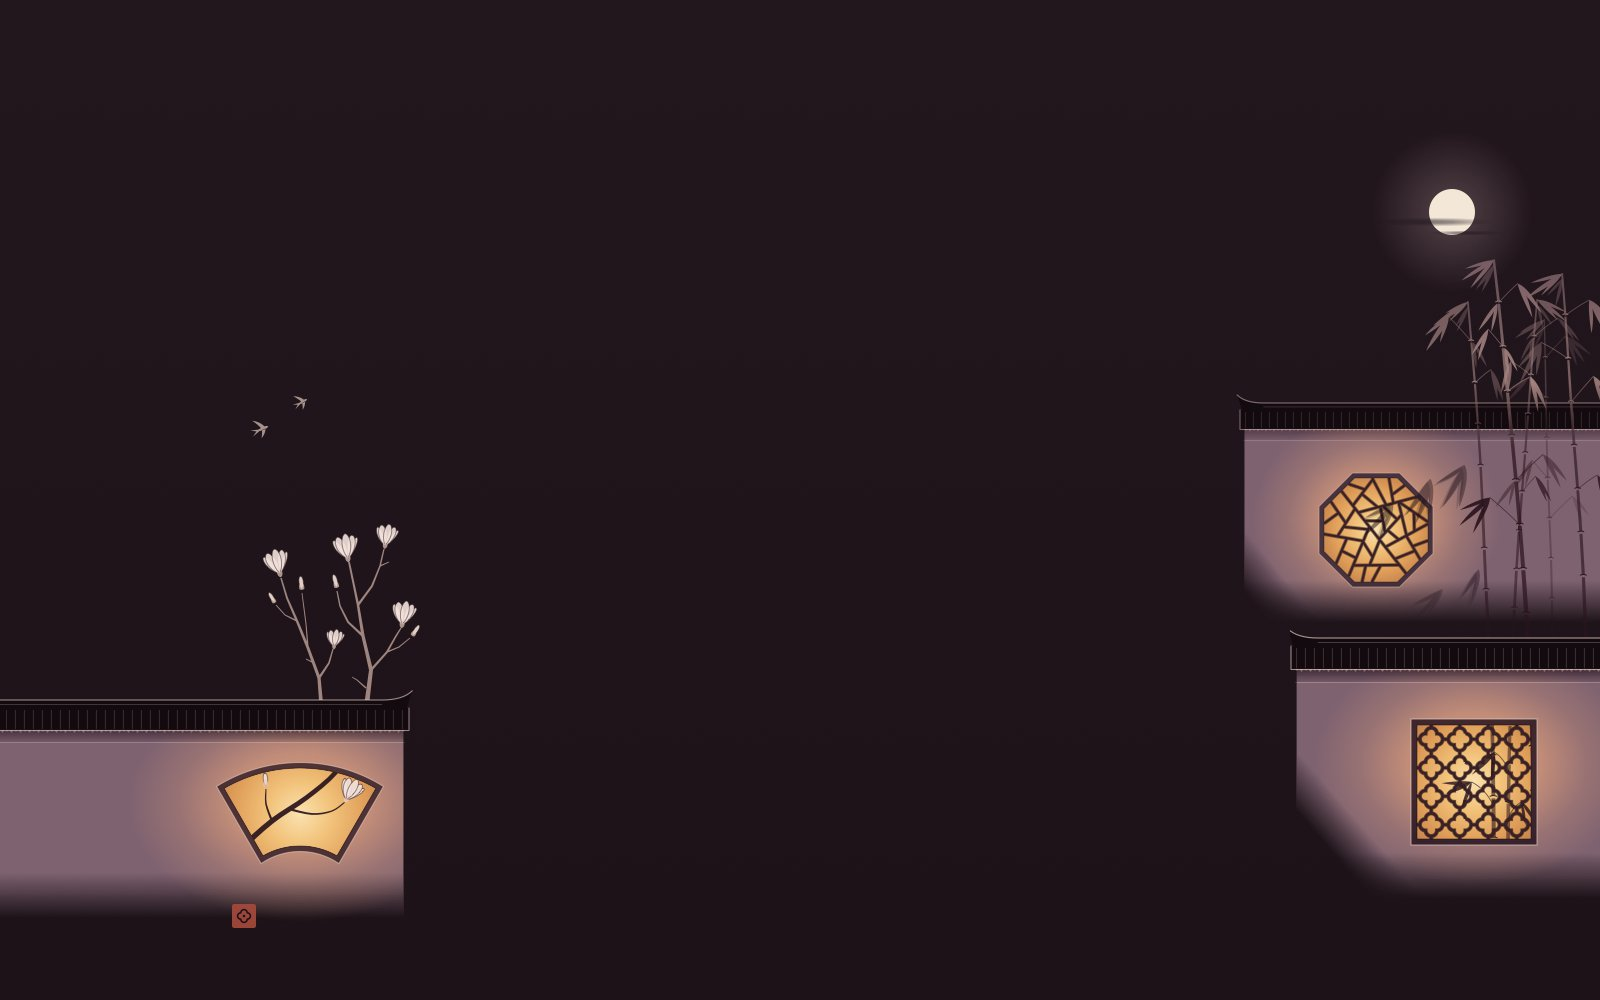
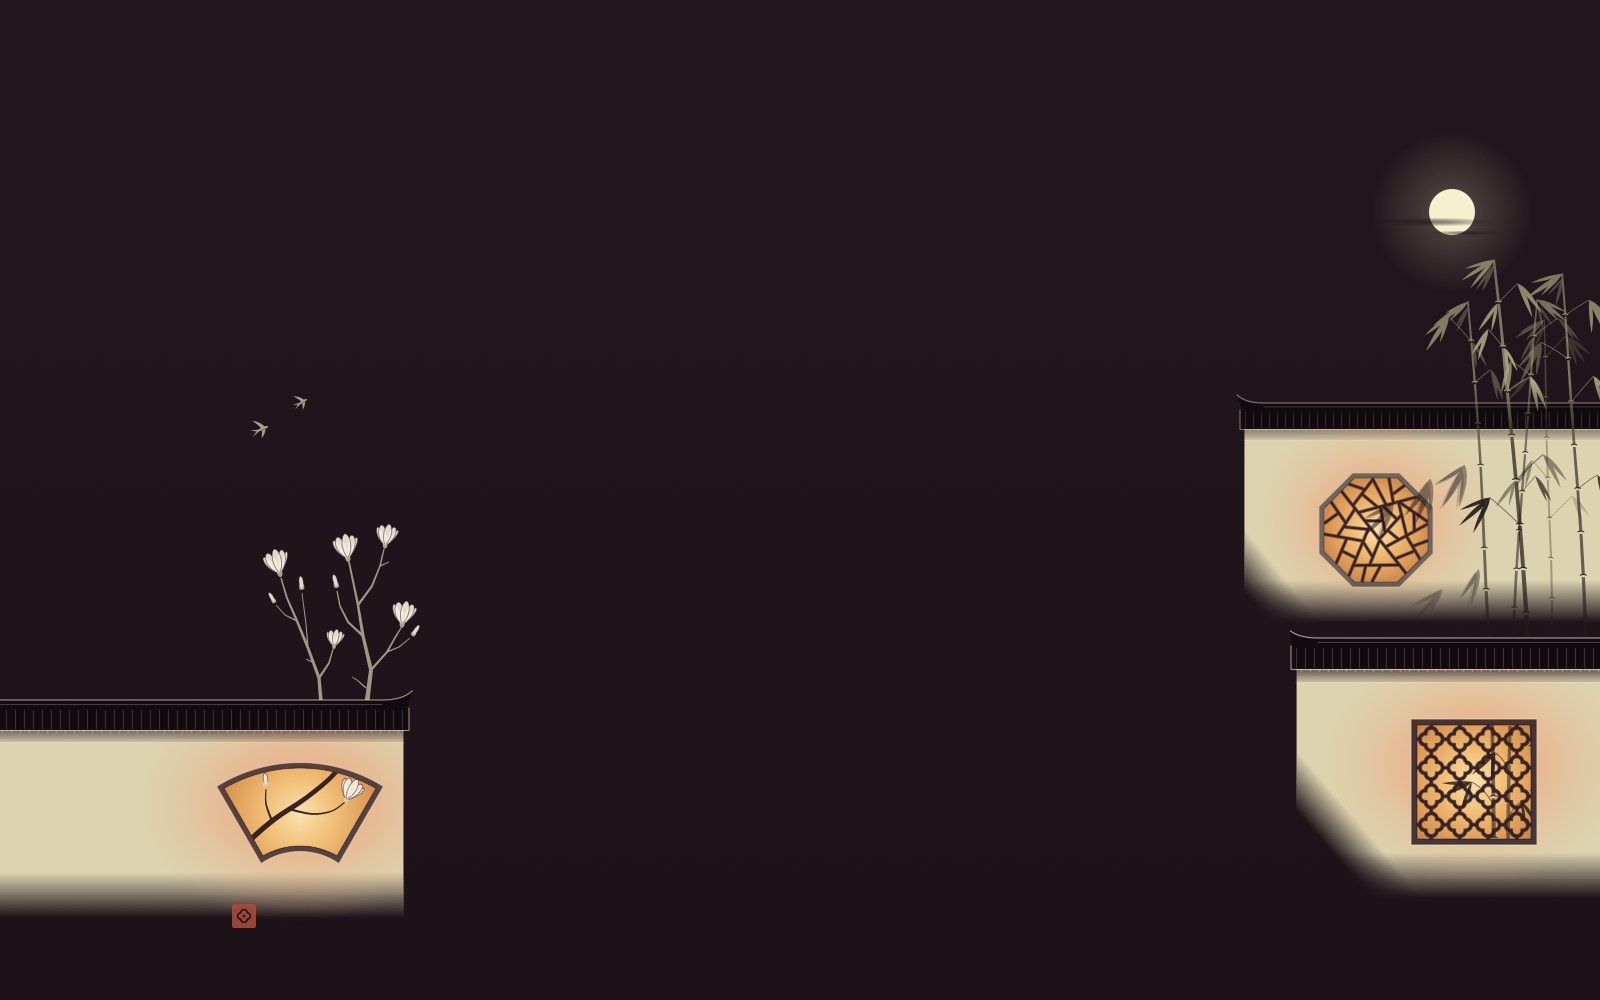
Lattice Windows at night: pale moonlight yellow walls instead of dusky rose
The night plaster, the lines, the moon's halo and the bamboo against the sky
lose their purple; the air stays a deep wine-ink and the windows stay lit.

diff --git a/_workshop/scenes-final/garden-lattice-lantern/scene.ts b/_workshop/scenes-final/garden-lattice-lantern/scene.ts
@@ -293,6 +293,25 @@ export const STOCKS = {
       spillStops: [[0, 0.85], [0.42, 0.6], [0.7, 0.24], [1, 0]],
     },
   },
+  /** Night, moonlit lantern: the lantern night with its plaster in pale moonlight yellow instead of dusky rose (the person did not like
+   * the purple of the walls and asked for something lighter, "pale yellow, like moonlight"). The air stays a deep wine-ink. */
+  nightMoonlit: {
+    sky: { base: [[0, '#23171e'], [1, '#1c1218']], glows: [] },
+    ink: '#ebe2c8', disc: '#f7f0cf', seal: '#a64a3c', lime: '#e4dbbd', limeAlpha: 1, bar: 1,
+    shade: '#1c0c18', shadeAlpha: 0.5, brickAlpha: 0.78, shadowInk: '#1a0c13', shadowAlpha: 0.4, hole: 1,
+    tileInk: '#130a0f', tile: 1.4, ridge: 1.4, rows: 0.62, rib: 0.3, groove: 0.3, line: 0.8, wallMist: 0,
+    petal: '#f6f0e2', petalAlpha: 0.9, petalLine: '#2a161d', petalLineAlpha: 0.6, halo: 0.2,
+    plaster: '#dcd4b1', plasterMist: { a: [580, 622], b: [852, 898], c: [872, 918] }, slopeLight: 0,
+    edgeInk: '#130a0f', edge: 0.7, fadeStops: [[0, 0], [1, 1]], cornerMist: 40,
+    mistStops: [[0, 0.55], [0.35, 0.45], [1, 0]], deepFlat: true, discAlpha: 1, haloColour: '#ddd3a6', haloR: 80,
+    bambooRamp: { from: 250, to: 446, stops: [[0, '#8a8468'], [0.68, '#b9b08c'], [1, '#231a17']] }, bambooInk: 1.1,
+    barFill: '#3a2026', barEdge: '#12090d', wood: '#e0d6b8', woodFan: '#2a141b',
+    lamp: {
+      stops: [[0, '#fae2b0'], [0.35, '#f2c27a'], [0.75, '#de9c58'], [1, '#c4844e']],
+      spill: '#eea87e',
+      spillStops: [[0, 0.85], [0.42, 0.6], [0.7, 0.24], [1, 0]],
+    },
+  },
 } as const satisfies Record<string, Stock>
 
 interface Point {
@@ -1308,9 +1327,9 @@ ${drawing}
 }
 
 /** Lattice Windows on any of its stocks: the two ink sheets (the gardens' own, low in colour), or the dusk skies shared with Ink Mountains. */
-export function sceneSvg(stock: 'dayLantern' | 'nightLantern' | 'dayDusk' | 'nightDusk' | 'dayInk' | 'nightInk' | 'day' | 'night' | 'nightWine'): string {
+export function sceneSvg(stock: 'dayLantern' | 'nightLantern' | 'nightMoonlit' | 'dayDusk' | 'nightDusk' | 'dayInk' | 'nightInk' | 'day' | 'night' | 'nightWine'): string {
   const chosen =
-    stock === 'dayLantern' ? STOCKS.dayLantern : stock === 'nightLantern' ? STOCKS.nightLantern :
+    stock === 'dayLantern' ? STOCKS.dayLantern : stock === 'nightLantern' ? STOCKS.nightLantern : stock === 'nightMoonlit' ? STOCKS.nightMoonlit :
     stock === 'dayDusk' ? STOCKS.dayDusk : stock === 'nightDusk' ? STOCKS.nightDusk :
     stock === 'dayInk' ? STOCKS.dayInk : stock === 'nightInk' ? STOCKS.nightInk : stock === 'day' ? STOCKS.day : stock === 'night' ? STOCKS.nightBlue : STOCKS.night
   return latticeSheet(chosen)
@@ -1323,5 +1342,5 @@ export function daySvg(): string {
 
 /** Lattice Windows on a garden night (灯影夜游), for a dark window: wine-ink air, the three openings lit amber-gold from within. */
 export function nightSvg(): string {
-  return sceneSvg('nightLantern')
+  return sceneSvg('nightMoonlit')
 }

diff --git a/theme-examples/hooks/scenes/garden-lattice-lantern.ts b/theme-examples/hooks/scenes/garden-lattice-lantern.ts
@@ -293,6 +293,25 @@ export const STOCKS = {
       spillStops: [[0, 0.85], [0.42, 0.6], [0.7, 0.24], [1, 0]],
     },
   },
+  /** Night, moonlit lantern: the lantern night with its plaster in pale moonlight yellow instead of dusky rose (the person did not like
+   * the purple of the walls and asked for something lighter, "pale yellow, like moonlight"). The air stays a deep wine-ink. */
+  nightMoonlit: {
+    sky: { base: [[0, '#23171e'], [1, '#1c1218']], glows: [] },
+    ink: '#ebe2c8', disc: '#f7f0cf', seal: '#a64a3c', lime: '#e4dbbd', limeAlpha: 1, bar: 1,
+    shade: '#1c0c18', shadeAlpha: 0.5, brickAlpha: 0.78, shadowInk: '#1a0c13', shadowAlpha: 0.4, hole: 1,
+    tileInk: '#130a0f', tile: 1.4, ridge: 1.4, rows: 0.62, rib: 0.3, groove: 0.3, line: 0.8, wallMist: 0,
+    petal: '#f6f0e2', petalAlpha: 0.9, petalLine: '#2a161d', petalLineAlpha: 0.6, halo: 0.2,
+    plaster: '#dcd4b1', plasterMist: { a: [580, 622], b: [852, 898], c: [872, 918] }, slopeLight: 0,
+    edgeInk: '#130a0f', edge: 0.7, fadeStops: [[0, 0], [1, 1]], cornerMist: 40,
+    mistStops: [[0, 0.55], [0.35, 0.45], [1, 0]], deepFlat: true, discAlpha: 1, haloColour: '#ddd3a6', haloR: 80,
+    bambooRamp: { from: 250, to: 446, stops: [[0, '#8a8468'], [0.68, '#b9b08c'], [1, '#231a17']] }, bambooInk: 1.1,
+    barFill: '#3a2026', barEdge: '#12090d', wood: '#e0d6b8', woodFan: '#2a141b',
+    lamp: {
+      stops: [[0, '#fae2b0'], [0.35, '#f2c27a'], [0.75, '#de9c58'], [1, '#c4844e']],
+      spill: '#eea87e',
+      spillStops: [[0, 0.85], [0.42, 0.6], [0.7, 0.24], [1, 0]],
+    },
+  },
 } as const satisfies Record<string, Stock>
 
 interface Point {
@@ -1308,9 +1327,9 @@ ${drawing}
 }
 
 /** Lattice Windows on any of its stocks: the two ink sheets (the gardens' own, low in colour), or the dusk skies shared with Ink Mountains. */
-export function sceneSvg(stock: 'dayLantern' | 'nightLantern' | 'dayDusk' | 'nightDusk' | 'dayInk' | 'nightInk' | 'day' | 'night' | 'nightWine'): string {
+export function sceneSvg(stock: 'dayLantern' | 'nightLantern' | 'nightMoonlit' | 'dayDusk' | 'nightDusk' | 'dayInk' | 'nightInk' | 'day' | 'night' | 'nightWine'): string {
   const chosen =
-    stock === 'dayLantern' ? STOCKS.dayLantern : stock === 'nightLantern' ? STOCKS.nightLantern :
+    stock === 'dayLantern' ? STOCKS.dayLantern : stock === 'nightLantern' ? STOCKS.nightLantern : stock === 'nightMoonlit' ? STOCKS.nightMoonlit :
     stock === 'dayDusk' ? STOCKS.dayDusk : stock === 'nightDusk' ? STOCKS.nightDusk :
     stock === 'dayInk' ? STOCKS.dayInk : stock === 'nightInk' ? STOCKS.nightInk : stock === 'day' ? STOCKS.day : stock === 'night' ? STOCKS.nightBlue : STOCKS.night
   return latticeSheet(chosen)
@@ -1323,5 +1342,5 @@ export function daySvg(): string {
 
 /** Lattice Windows on a garden night (灯影夜游), for a dark window: wine-ink air, the three openings lit amber-gold from within. */
 export function nightSvg(): string {
-  return sceneSvg('nightLantern')
+  return sceneSvg('nightMoonlit')
 }

diff --git a/theme-examples/hooks/themes.ts b/theme-examples/hooks/themes.ts
@@ -117,7 +117,7 @@ const GARDEN_THEMES: Theme[] = [
     // The default by night: the garden open after dark, its lattice windows lit from inside (the person chose this one for dark mode).
     id: 'garden-lattice-night',
     title: 'Lattice Windows, Lantern Night',
-    blurb: 'The same wall on a wine-dark night, its three lattice windows lit amber from inside.',
+    blurb: 'The same wall on a wine-dark night, pale yellow in the moonlight, its three lattice windows lit amber from inside.',
     window: 'dark',
     twin: 'garden-lattice',
     glass: { blur: 0, tint: '#1f141a', opacity: 0 },
